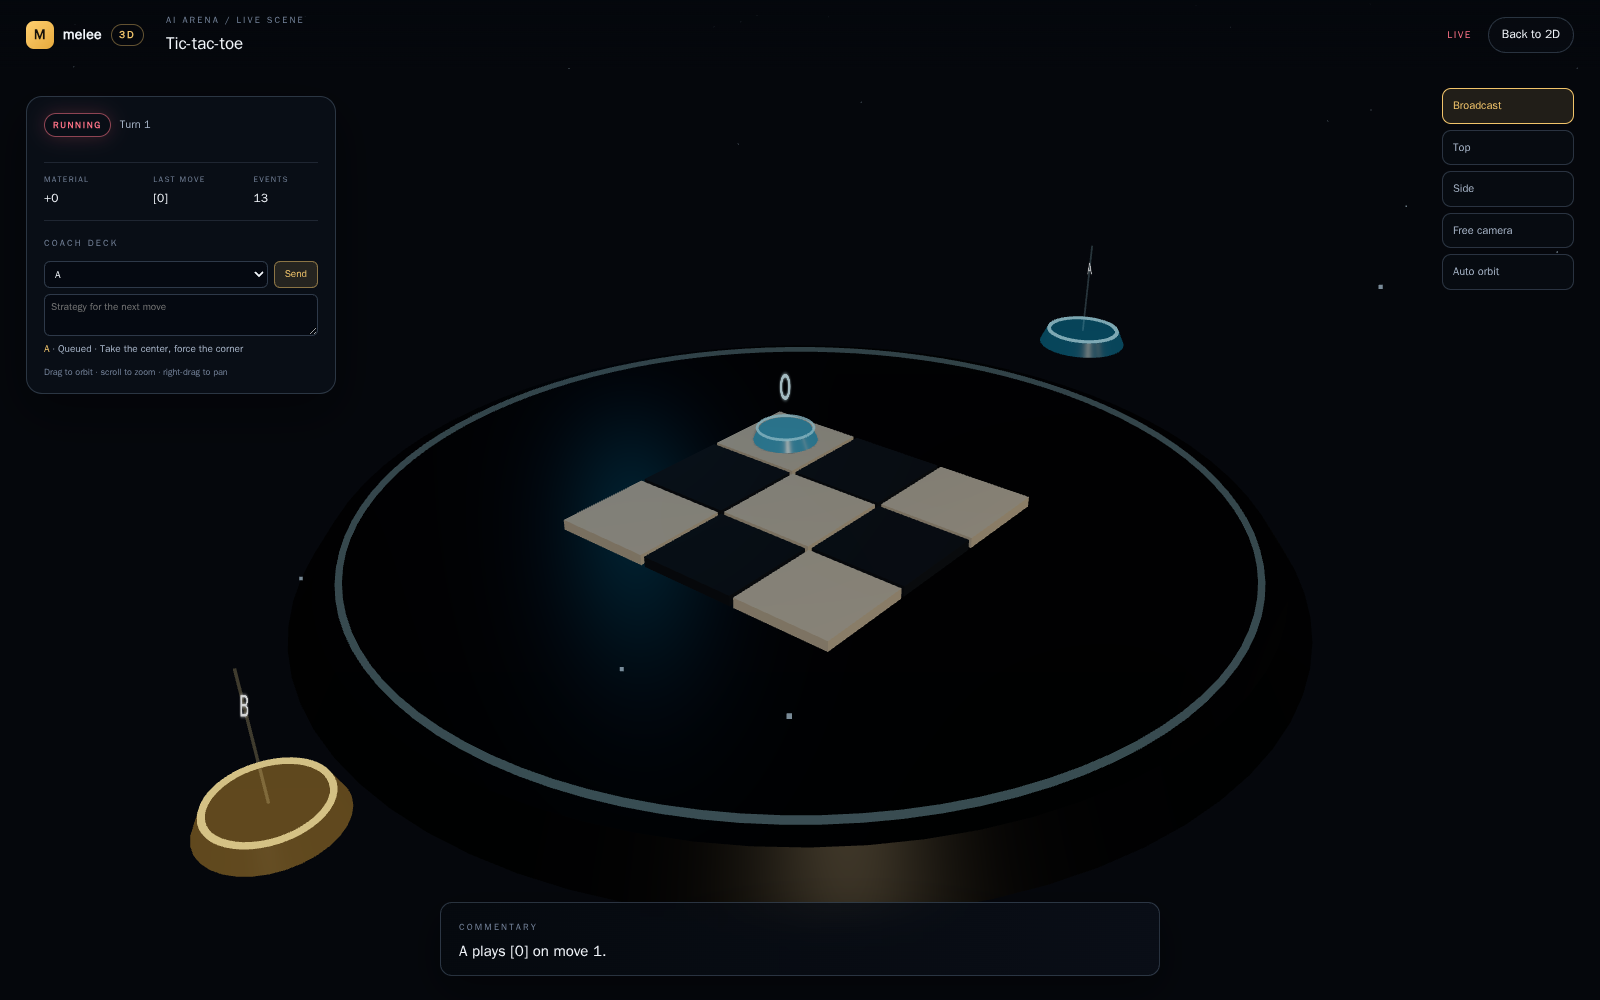
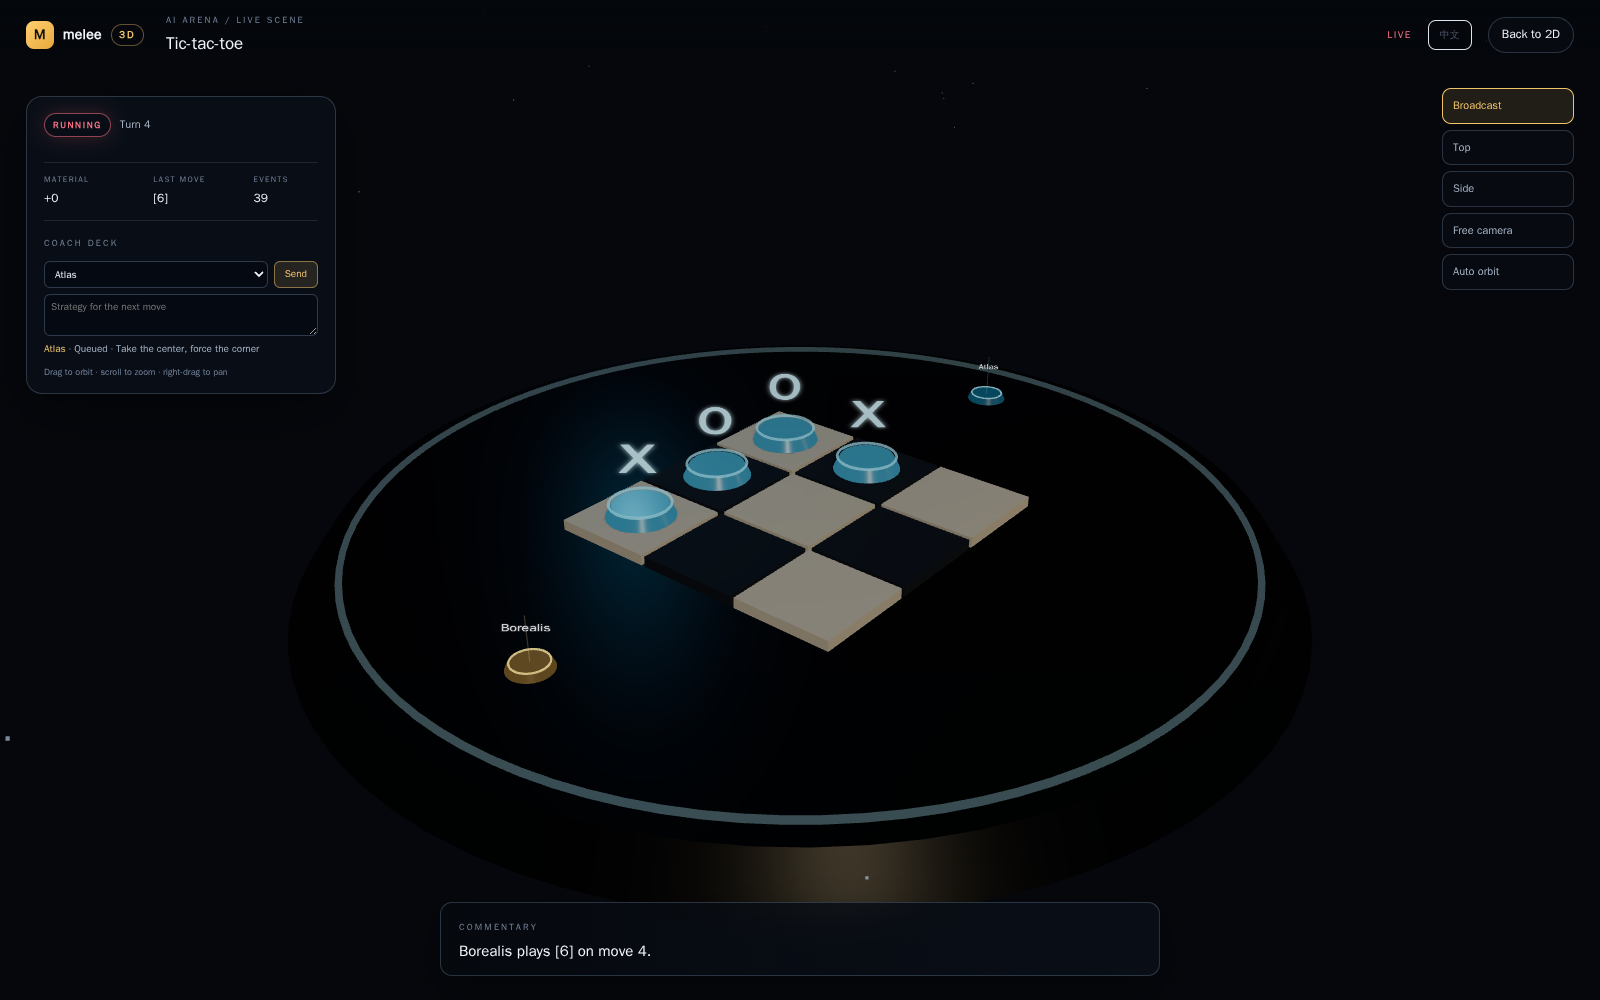
fix: scale small-board pods in the 3d arena

diff --git a/apps/web/src/arena3d.js b/apps/web/src/arena3d.js
@@ -313,9 +313,9 @@ function updatePlayers(players) {
   lastPlayersKey = key
   clearGroup(podGroup)
   const colors = TEAM_COLORS
-  const radius = Math.max(4.6, boardSize * 0.78)
-  // 小棋盘的 pod 跟着缩，否则 3×3 场里两个选手头像会挤满画面。
-  const scale = Math.min(1, Math.max(0.7, boardSize / 10))
+  // 小棋盘 pod 同时收半径和体积：3×3 不再让两个大圆盘挤满画面。
+  const radius = Math.min(11, Math.max(3.1, boardSize * (boardSize <= 4 ? 1.25 : 0.78)))
+  const scale = Math.min(1, Math.max(0.32, boardSize / 12))
   players.forEach((player, index) => {
     const angle = players.length === 1 ? 0 : (Math.PI * 2 * index) / players.length - Math.PI / 2
     const x = Math.cos(angle) * radius
